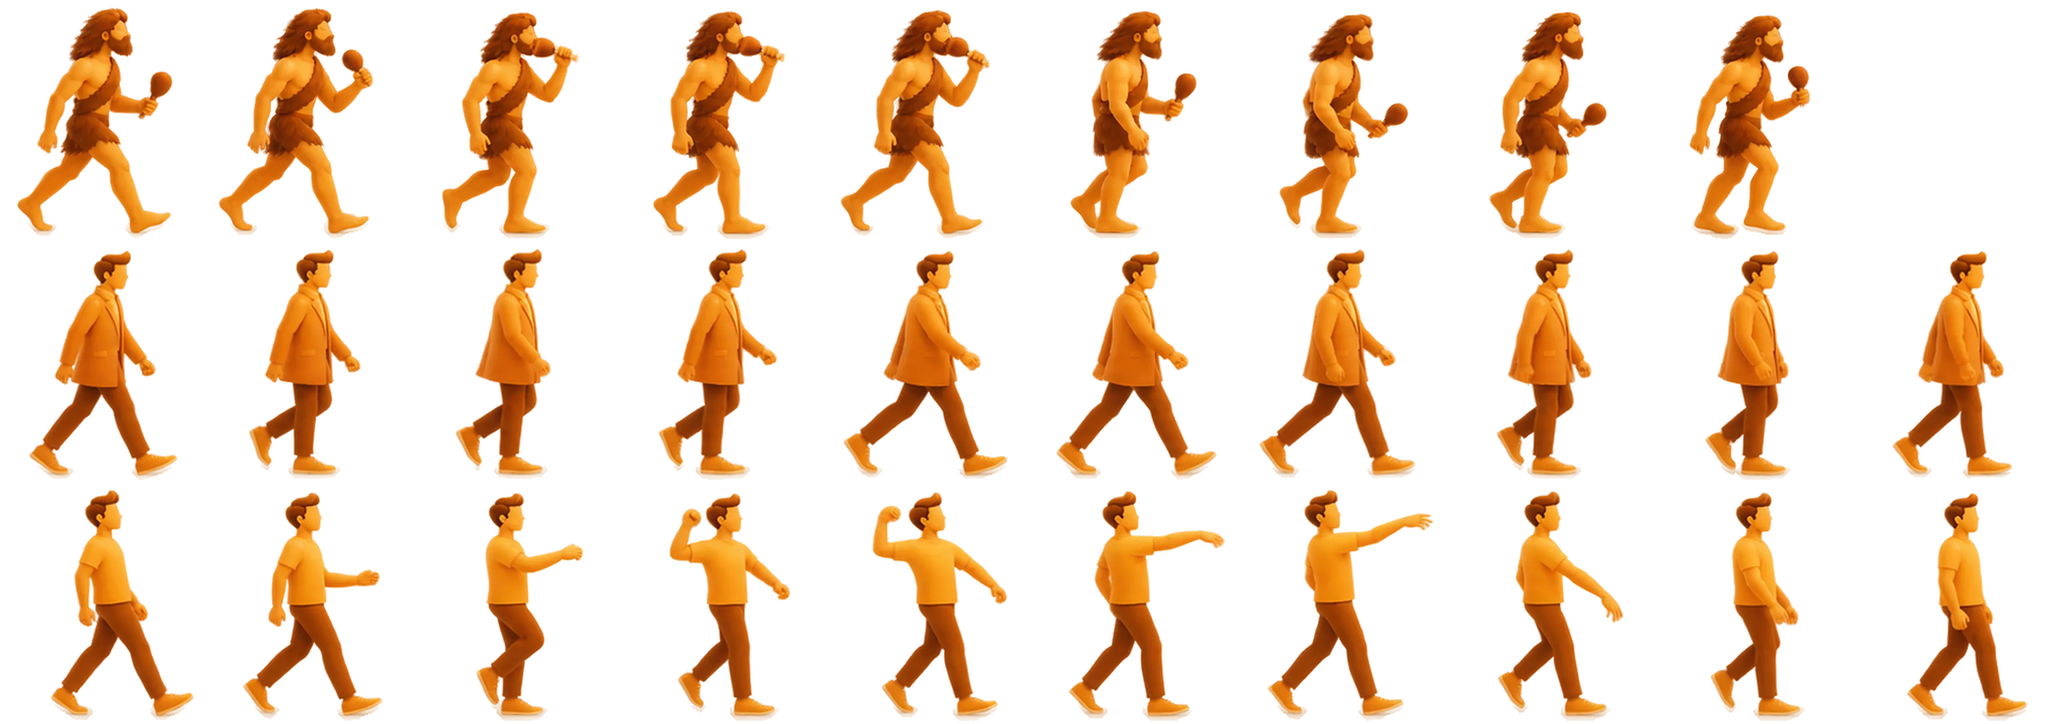
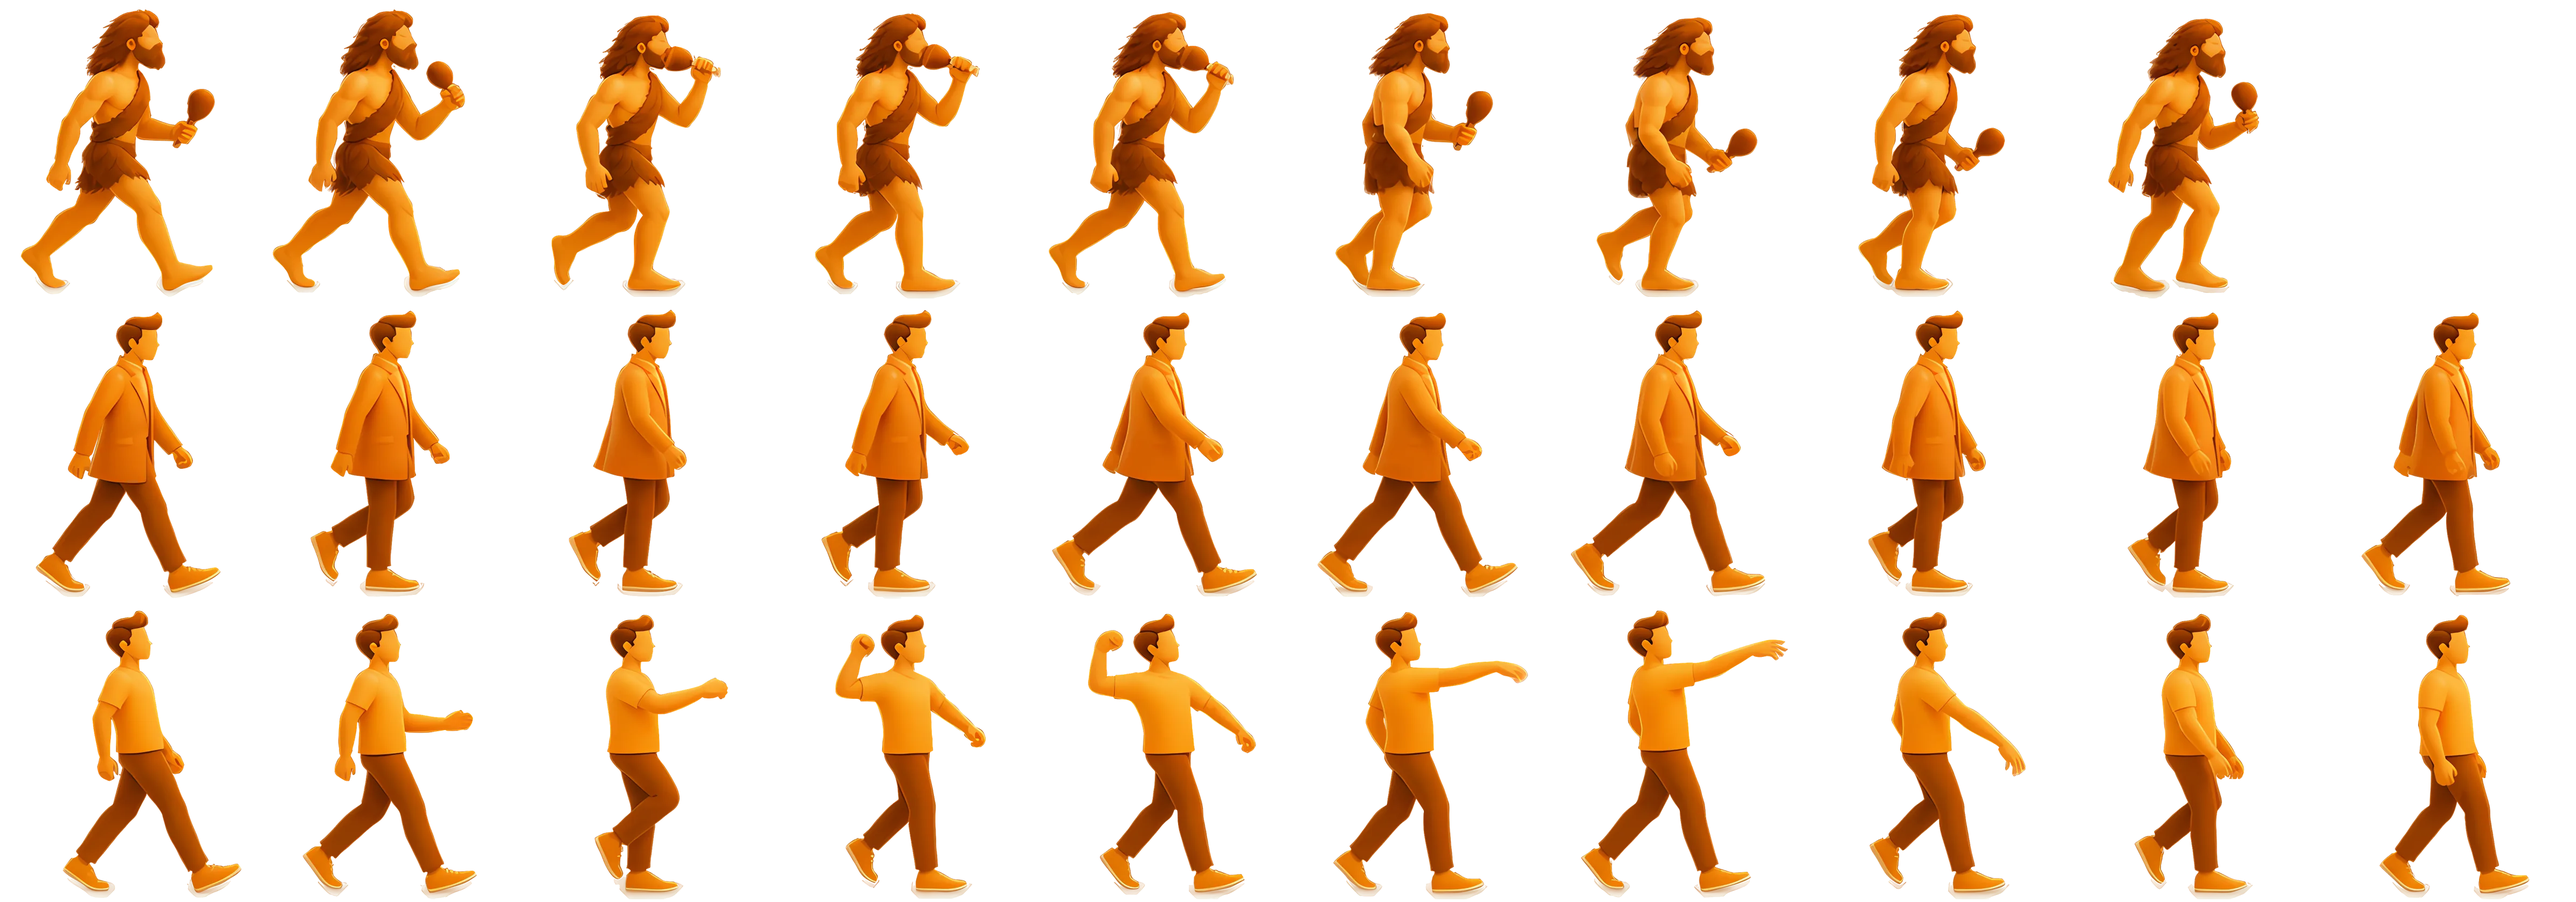
Hero story: AI-upscaled sharp people, leash held in hand per frame, natural step cadence on fast mouse-wheel scrolling
Claude-Session: https://claude.ai/code/session_01Tb8kpPiw2Lo2ix564QgufY

diff --git a/assets/site.js b/assets/site.js
@@ -185,7 +185,9 @@ function frame(now){requestAnimationFrame(frame);
       var dX=kf([[0,0],[.087,.72],[.141,.72],[.322,2.22],[.383,2.22],[.503,3.22],[.564,3.22],[.671,4.12],[.765,5.32],[.866,6.12],[.946,6.5]],st),cX=6.5,
           eX=.75+.15*dX,mX=dX<2.22?1.687+.15*dX:dX<=3.22?dX-.2:3.02+.15*(dX-3.22),tX=3.752+.15*dX,
           cam=dX+hstory._lead,camE=seg(.9,.99,st);cam=cam+(cX-cam)*camE*camE*(3-2*camE);
-      var cyc=.56*Hh/Sp,wf=((Math.floor(dX/cyc*8)%8)+8)%8,rnf=9+((Math.floor(dX/(cyc*1.5)*6)%6)+6)%6,fr,ps,
+      var cyc=.56*Hh/Sp,gdt=Math.min(.05,fdt/1000),gdx=hst.pdX==null?0:Math.abs(dX-hst.pdX);hst.pdX=dX;
+      hst.wph=(hst.wph||0)+Math.min(gdx/cyc,gdt*1.7);hst.rph=(hst.rph||0)+Math.min(gdx/(cyc*1.5),gdt*2.3);hst.hph=(hst.hph||0)+Math.min(gdx/(cyc*1.6),gdt*1.1);
+      var wf=Math.floor(hst.wph*8)%8,rnf=9+Math.floor(hst.rph*6)%6,fr,ps,
           sitf=function(a,b){var q=seg(a,b,st);return q<.3?22+Math.min(5,Math.floor(q/.3*6)):q<.72?27:28+Math.min(5,Math.floor((q-.72)/.28*6))};
       if(st<.087){ps='walk';fr=wf}else if(st<.141){ps='sniff';fr=16+Math.min(5,Math.floor(seg(.087,.141,st)*6))}else if(st<.32){ps='walk';fr=wf}
       else if(st<.385){ps='sit';fr=sitf(.32,.385)}else if(st<.501){ps='walk';fr=wf}else if(st<.566){ps='sit';fr=sitf(.501,.566)}
@@ -198,7 +200,7 @@ function frame(now){requestAnimationFrame(frame);
       hdog.style.transform='translate3d('+(dX*Sp).toFixed(1)+'px,'+dY.toFixed(1)+'px,0)';
       var hb=function(x){return 'translate3d('+(x*Sp).toFixed(1)+'px,0,0)'};
       if(!hst.ms){hst.ms=[$('#hE .hms'),$('#hM .hms'),$('#hT .hms')];hst.mf=[-1,-1,-1]}
-      var hcy=cyc*1.6,wk=function(x,n){return ((Math.floor(x/hcy*n)%n)+n)%n},tw=[0,1,8,9],tf,tq0=seg(.645,.69,st);
+      var wk=function(x,n){return Math.floor(hst.hph*n)%n},tw=[0,1,8,9],tf,tq0=seg(.645,.69,st);
       tf=st<.645?tw[wk(dX,4)]:st<.69?Math.min(7,2+Math.floor(tq0*6)):st<.72?7:tw[wk(dX,4)];
       var mfr=[wk(dX,9),wk(dX,9),tf];for(var hi=0;hi<3;hi++){if(mfr[hi]!==hst.mf[hi]){hst.mf[hi]=mfr[hi];hst.ms[hi].style.backgroundPositionX=(mfr[hi]/9*100).toFixed(2)+'%'}}
       hst.E.style.transform=hb(eX);hst.M.style.transform=hb(mX);hst.T.style.transform=hb(tX);hst.C.style.transform='translate3d('+(cX*Sp).toFixed(1)+'px,0,0)';
@@ -213,7 +215,7 @@ function frame(now){requestAnimationFrame(frame);
       hbone.style.opacity=bo;hbone.style.transform='translate3d('+bx.toFixed(1)+'px,'+by.toFixed(1)+'px,0) rotate('+br.toFixed(0)+'deg)';
       /* leash: clips on while the dog sits, stays for the walk, unclips and swings back to the hand */
       var lon=seg(.345,.365,st),loff=seg(.515,.54,st),lo=lon*(1-seg(.54,.556,st));hleash.style.opacity=lo.toFixed(2);hclip.style.opacity=lo.toFixed(2);
-      if(lo>0){var hx=mX*Sp+Hh*.2,hy=-Hh*.5,nx0=dX*Sp+(sitting?Hh*.09:Hh*.17),ny0=(sitting?-Hh*.34:-Hh*.3)+dY,nx=nx0+(hx+Hh*.02-nx0)*loff,ny=ny0+(hy+Hh*.3-ny0)*loff;
+      if(lo>0){var LHd=[[.201,.471],[.197,.491],[.129,.477],[.211,.518],[.201,.502],[.204,.507],[.208,.514],[.167,.466],[.125,.473],[.163,.471]][hst.mf?hst.mf[1]:0]||[.2,.48],hx=mX*Sp+Hh*LHd[0],hy=-Hh*(LHd[1]-.017),nx0=dX*Sp+(sitting?Hh*.09:Hh*.17),ny0=(sitting?-Hh*.34:-Hh*.3)+dY,nx=nx0+(hx+Hh*.02-nx0)*loff,ny=ny0+(hy+Hh*.3-ny0)*loff;
         hleash.setAttribute('d','M'+hx.toFixed(1)+' '+hy.toFixed(1)+' Q'+((hx+nx)/2).toFixed(1)+' '+(Math.max(hy,ny)+Hh*.15*(1-loff)).toFixed(1)+' '+nx.toFixed(1)+' '+ny.toFixed(1));hclip.setAttribute('cx',nx.toFixed(1));hclip.setAttribute('cy',ny.toFixed(1))}
       /* ball */
       var tq=seg(.671,.765,st),thx=tX*Sp+Hh*.36,thy=-Hh*.74,bxx,byy;

diff --git a/assets/site.css b/assets/site.css
@@ -551,7 +551,7 @@ body{background:radial-gradient(80rem 50rem at 110% -10%,rgba(255,184,28,.10),tr
 .menu nav a:nth-child(6){transition-delay:.4s}
 .menu .mfoot .row{flex-wrap:nowrap}.menu .mfoot .btn{flex:1;justify-content:center;padding-left:1rem;padding-right:1rem;font-size:.95rem}
 [data-theme=light] .burger{background:rgba(255,247,234,.78)}
-.hp.hm{width:calc(var(--H)*.8549);translate:-50% 1.7%}.hms{position:absolute;inset:0;background:url(/img/humspr.webp) 0 0/1000% 300% no-repeat}
+.hp.hm{width:calc(var(--H)*.8566);translate:-50% 1.7%}.hms{position:absolute;inset:0;background:url(/img/humspr.webp) 0 0/1000% 300% no-repeat}
 .wallw{position:relative}.revact{display:flex;align-items:center;gap:.8rem;flex-wrap:wrap}.wpause{display:inline-flex;align-items:center;gap:.5rem;padding:.5rem .9rem;border-radius:999px;border:1px solid var(--line);background:var(--glass);-webkit-backdrop-filter:blur(8px);backdrop-filter:blur(8px);color:var(--cream);font-size:.82rem;font-weight:500;cursor:pointer}
 .wpause i{position:relative;width:.7rem;height:.75rem;flex:none}.wpause i::before,.wpause i::after{content:"";position:absolute;top:0;width:.22rem;height:100%;background:var(--amber);border-radius:1px}.wpause i::before{left:0}.wpause i::after{right:0}
 .wpause.on i::before{width:0;height:0;background:none;border-style:solid;border-width:.375rem 0 .375rem .65rem;border-color:transparent transparent transparent var(--amber);border-radius:0}.wpause.on i::after{display:none}
@@ -561,3 +561,4 @@ body{background:radial-gradient(80rem 50rem at 110% -10%,rgba(255,184,28,.10),tr
 .nav{view-transition-name:site-nav}.runner{view-transition-name:site-runner}
 ::view-transition-group(site-nav),::view-transition-group(site-runner){animation:none}}
 .menu:focus{outline:none}
+@media (max-width:900px){.hms{background-image:url(/img/humspr-m.webp)}}
